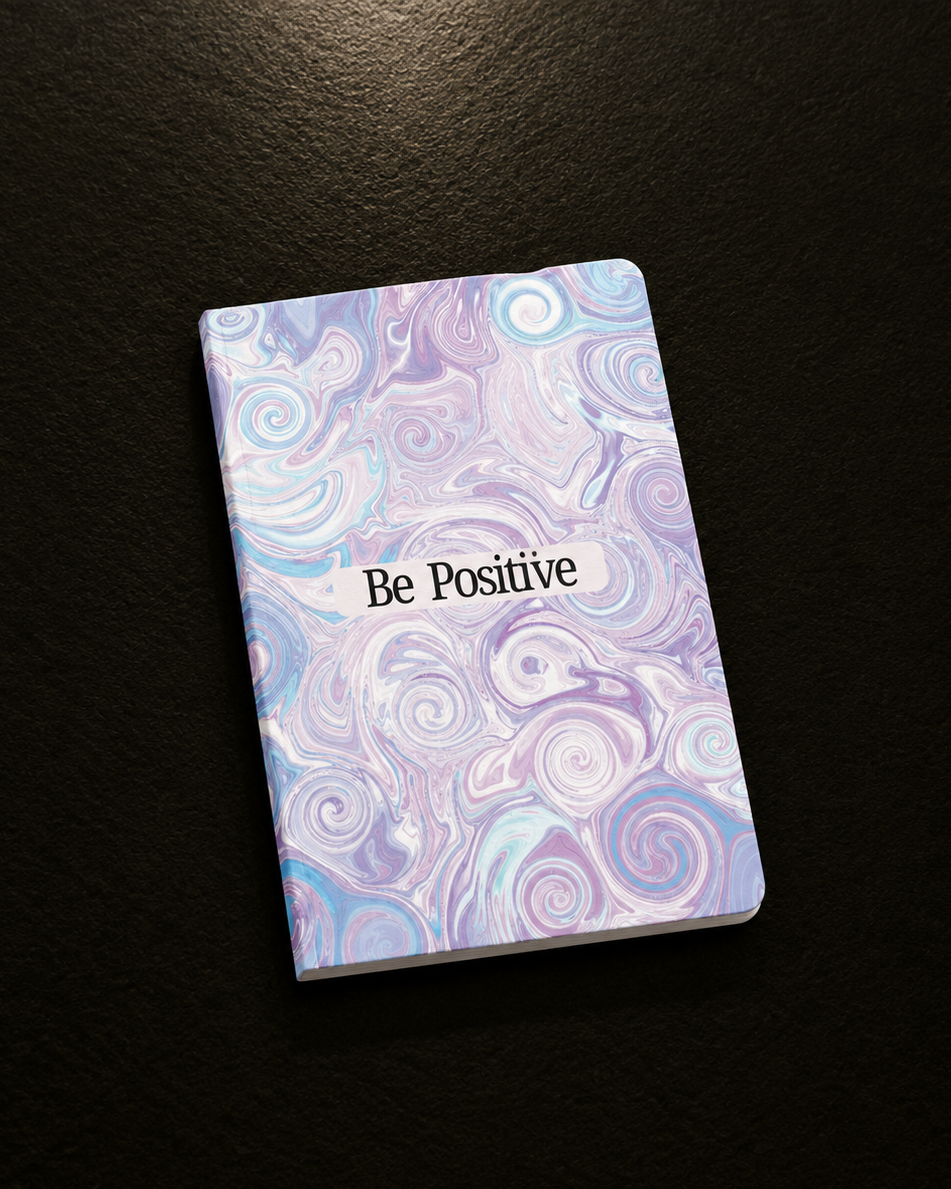
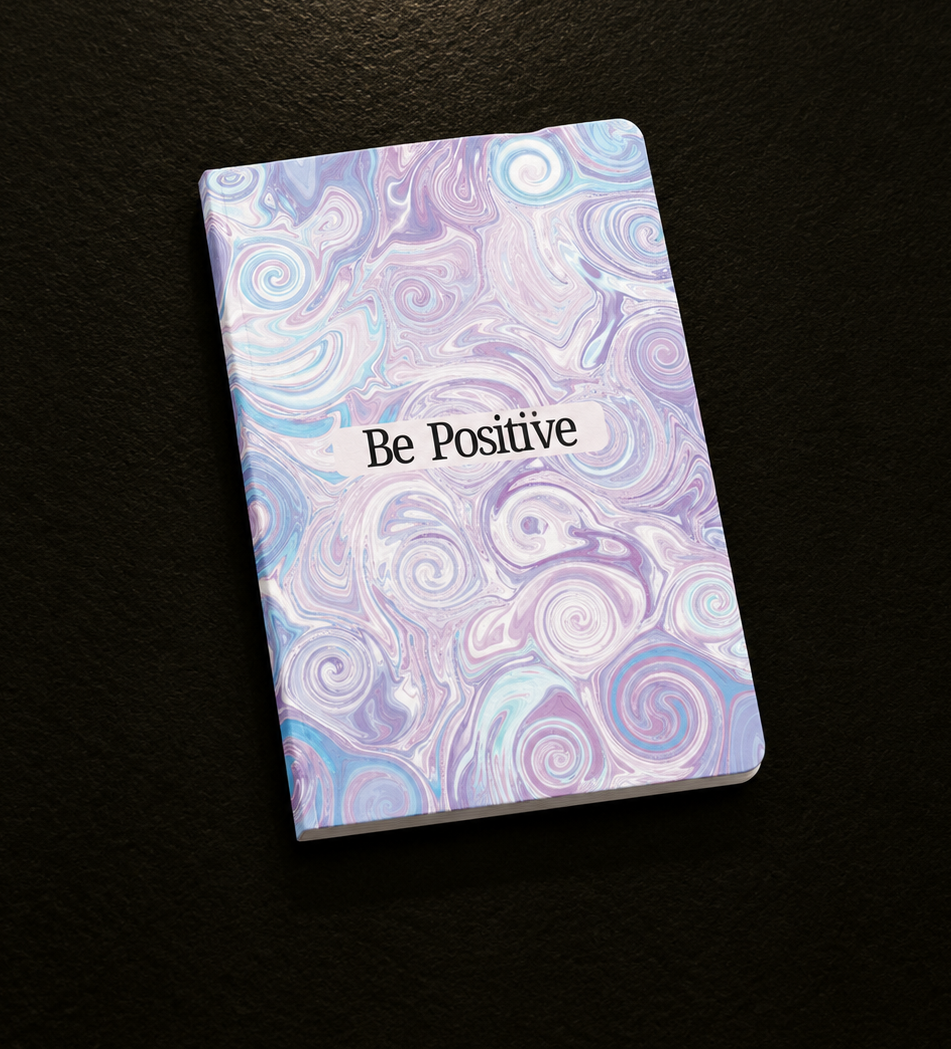
fixed ratio

Changed region(s): [[0.122, 0.0, 0.8233, 0.8236]]

diff --git a/src/categoryMeta.js b/src/categoryMeta.js
@@ -7,7 +7,7 @@ export const CATEGORY_META = [
   { id: "bookmarks", label: "Bookmarks", icon: "bookmark", aspectRatio: "4 / 5" },
   { id: "Coloring Book", label: "Colouring Books", icon: "coloringbookcol", aspectRatio: "1 / 1" },
   { id: "memopads", label: "Memo Pads", icon: "pad" },
-  { id: "notebook", label: "Journals & Notepads", icon: "notebook" },
+  { id: "notebook", label: "Journals & Notepads", icon: "notebook", aspectRatio: "4 / 5" },
   { id: "sticky", label: "Sticky Notes", icon: "sticky", aspectRatio: "4 / 3" },
   { id: "washi", label: "Washi Tapes", icon: "tape", aspectRatio: "3 / 2" },
   { id: "erasers", label: "Erasers", icon: "eraser" },
